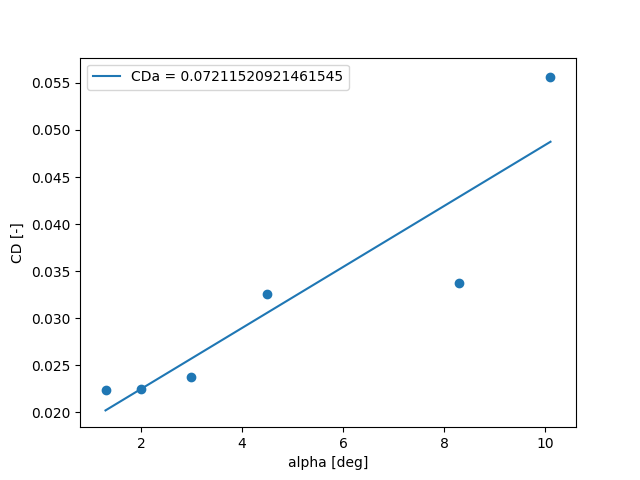
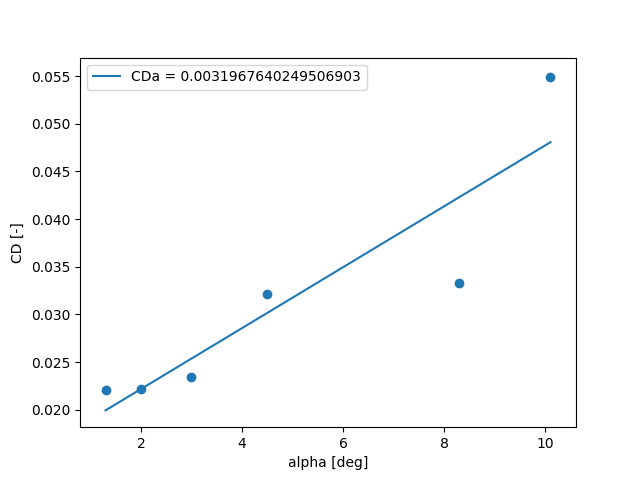
Commit

diff --git a/domas/stationary.py b/domas/stationary.py
@@ -14,10 +14,10 @@ lbshr_kgs = 0.000125998
 lbs_kg = 0.453592
 
 # h[ft] v[kts] tat[c] ffl[lbs/hr] ffr[lbs/hr] wf[lbs] alpha[deg]
-data_not_si = np.array([#[5010, 248, 11.2, 768, 784, 215, 1.5],
+data_not_si = np.array([#[5010, 248, 11.2, 768, 784, 215, 1.5], # This is a test measurement
                         [6040, 251, 10.5, 786, 776, 410, 1.3],
                         [6035, 222, 8.2, 637, 650, 450, 2.0],
-                        [6030, 192, 6.1, 515, 548, 487, 3.0],
+                        [6030, 192, 6.1, 515, 548, 487, 3.0], # Thrust here seems off
                         [6040, 165, 4.8, 558, 470, 540, 4.5],
                         [6030, 130, 3.5, 373, 385, 574, 8.3],
                         [6040, 115, 3.0, 414, 435, 604, 10.1]])
@@ -96,15 +96,6 @@ T = Tmeas / (1 + (gamma - 1) / 2 * M**2)
 Vt = M * a
 Ve = Vt * np.sqrt(rho / rho0)
 
-# Constant values concerning aircraft inertia
-
-muc    = m / (rho * S * c)
-mub    = m / (rho * S * b)
-KX2    = 0.019
-KZ2    = 0.042
-KXZ    = 0.002
-KY2    = 1.25 * 1.114
-
 # Lift coefficient
 CL = 2 * W / (rho * Vt ** 2 * S)              # Lift coefficient [ ]
 
@@ -115,6 +106,7 @@ linregress_x = np.array([min(alpha_deg), max(alpha_deg)])
 linregress_y = intercept + CLa * linregress_x
 
 CLalabel = 'CLa = '+str(CLa)
+print(CLalabel)
 
 plt.plot(linregress_x, linregress_y, label = CLalabel)
 plt.scatter(alpha_deg, CL)
@@ -162,9 +154,11 @@ linregress_y = CD0 + slope * linregress_x
 
 oswald = 1 / (pi * A * slope)
 
-CDlabel = 'CD0 = '+str(CD0)+', e = '+str(oswald)
+CClabel = 'CD0 = '+str(CD0)+', e = '+str(oswald)
 
-plt.plot(linregress_x, linregress_y, label=CDlabel)
+print(CClabel)
+
+plt.plot(linregress_x, linregress_y, label=CClabel)
 plt.scatter(CL_sq, CD)
 plt.ylabel('CD [-]')
 plt.xlabel('CL^2 [-]')
@@ -193,9 +187,10 @@ CDa, intercept, uu_r_value, uu_p_value, uu_std_err = stats.linregress(alpha_deg,
 linregress_x = np.array([min(alpha_deg), max(alpha_deg)])
 linregress_y = intercept + CDa * linregress_x
 
-CLalabel = 'CDa = '+str(CLa)
+CDalabel = 'CDa = '+str(CDa)
+print(CDalabel)
 
-plt.plot(linregress_x, linregress_y, label = CLalabel)
+plt.plot(linregress_x, linregress_y, label = CDalabel)
 plt.scatter(alpha_deg, CD)
 plt.ylabel('CD [-]')
 plt.xlabel('alpha [deg]')
